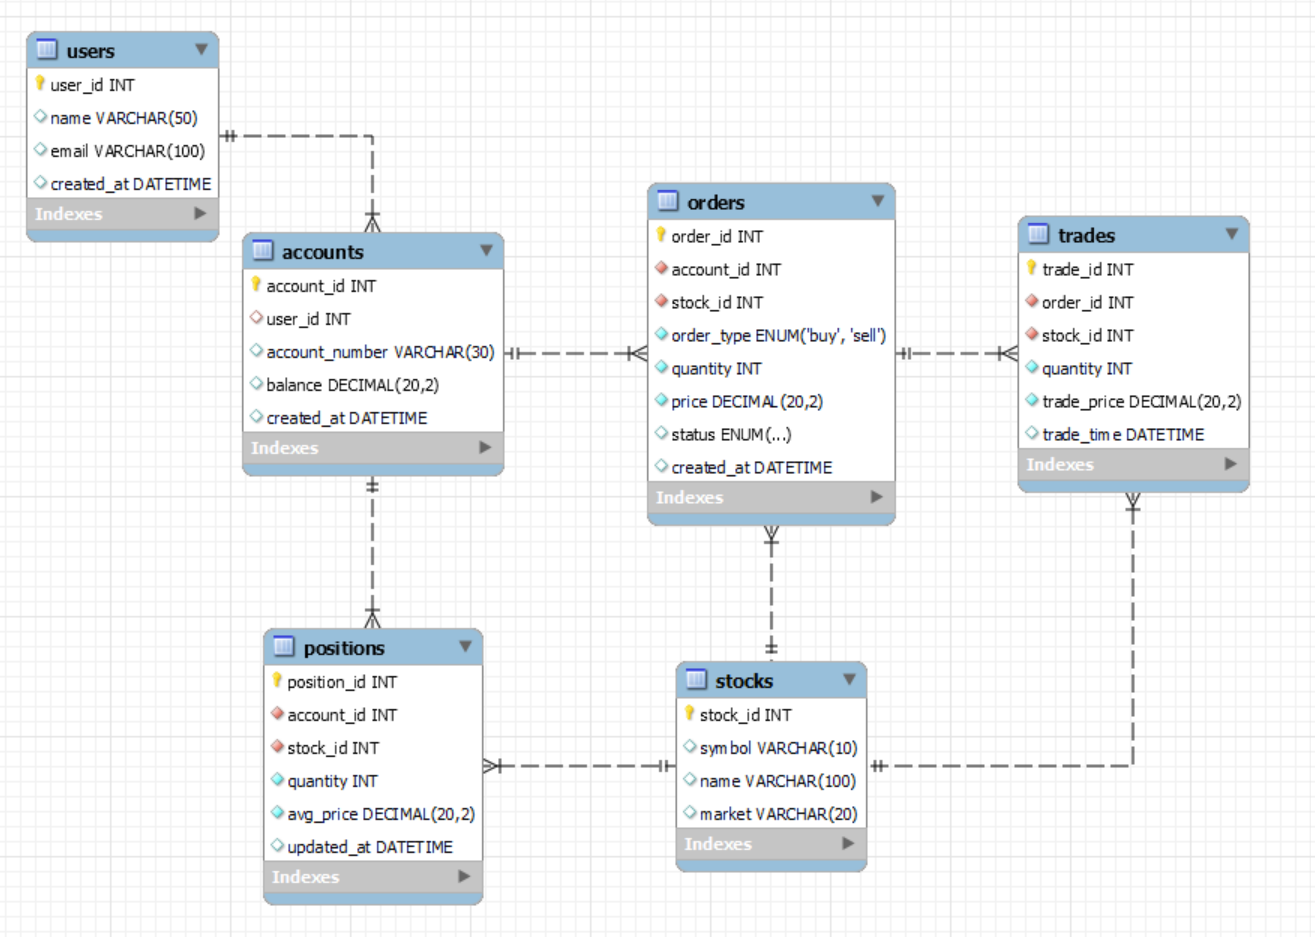
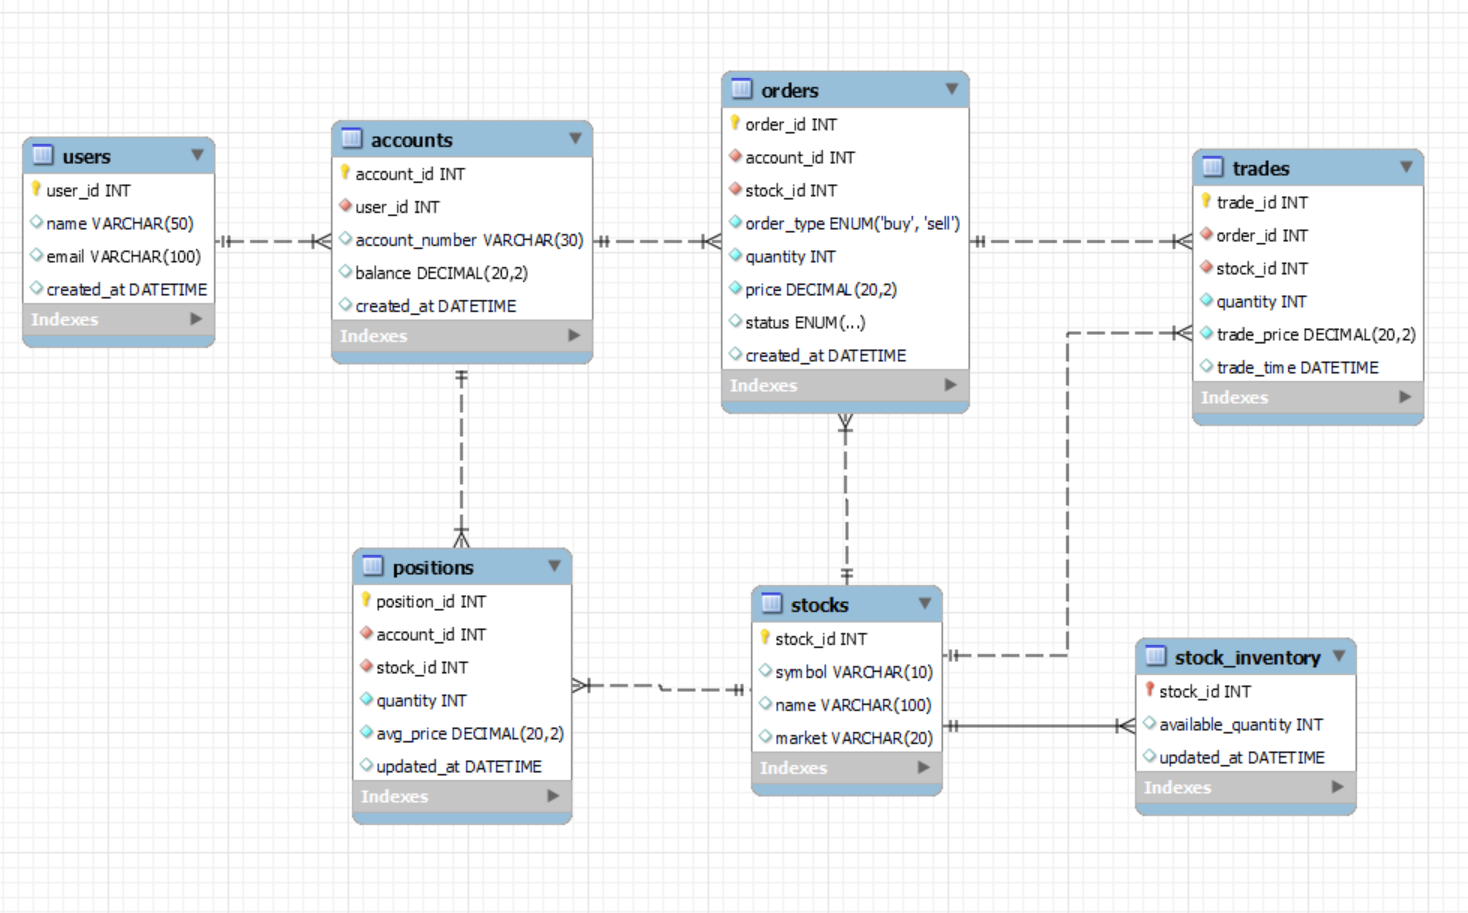
draft

Changed region(s): [[0.1871, 0.0613, 0.9977, 0.9814], [0.0, 0.0307, 0.4365, 0.5214]]

diff --git a/projects/stock_db/index.html b/projects/stock_db/index.html
@@ -289,6 +289,7 @@
     <li><a href="#기획-배경-및-목적">기획 배경 및 목적</a></li>
     <li><a href="#기능-구성">기능 구성</a></li>
     <li><a href="#db-설계">DB 설계</a></li>
+    <li><a href="#dummy-데이터-생성">Dummy 데이터 생성</a></li>
   </ul>
 </nav>
   </aside>
@@ -382,10 +383,10 @@ DB CPU, 커넥션 수, 쿼리 응답시간, 에러 등 시각화</p>
 </li>
 </ol>
 <h2 id="db-설계">DB 설계</h2>
-<p>증권거래 시스템에서 필요할 것으로 생각되는 정보들을 취합한 ERM</p>
+<p>증권거래 시스템에서 필요할 것으로 생각되는 정보들을 취합한 ERD</p>
 <p align="center">
-  <a href="/images/projects/stock_db/ERD.png" data-lightbox="image-set">
-    <img src="/images/projects/stock_db/ERD.png" alt="Your Alt Text" >
+  <a href="/images/projects/stock_db/erd.png" data-lightbox="image-set">
+    <img src="/images/projects/stock_db/erd.png" alt="Your Alt Text" >
   </a>
 </p>
 <table>
@@ -416,9 +417,50 @@ DB CPU, 커넥션 수, 쿼리 응답시간, 에러 등 시각화</p>
 <td><code>stocks</code></td>
 <td>주문, 체결, 포지션에서 공통적으로 참조하는 주식 종목</td>
 </tr>
+<tr>
+<td><code>stocks ↔ stocks_inventory</code></td>
+<td>주문 체결에 따른 종목의 잔여수량</td>
+</tr>
 </tbody>
 </table>
-
+<p>위와 같이 논리적 모델링을 해봤다.<br>
+물론 실제 시스템은 훨씬 크고 복잡한 구조를 가졌을 테지만, 내가 생각했을 때 가장 필요한 개체와 속성들을 위주로 간단하게 만들었다.</p>
+<h2 id="dummy-데이터-생성">Dummy 데이터 생성</h2>
+<p>현재는 아무 데이터가 없는 상태이니 임의로 데이터를 넣어주도록 하겠다.<br>
+users, accounts, stocks 테이블의 데이터는 사전에 만들어진 상태로, 매매 주문 체결 과정만 transaction으로 구현해보려 한다.</p>
+<div class="highlight"><pre tabindex="0" style="color:#f8f8f2;background-color:#272822;-moz-tab-size:4;-o-tab-size:4;tab-size:4;"><code class="language-python" data-lang="python"><span style="display:flex;"><span>
+</span></span><span style="display:flex;"><span><span style="color:#75715e">#2025년 1월1일 기준 KOSPI 상장 종목</span>
+</span></span><span style="display:flex;"><span>tock_lst <span style="color:#f92672">=</span> stock<span style="color:#f92672">.</span>get_market_ticker_list(<span style="color:#e6db74">&#39;20250101&#39;</span>,<span style="color:#e6db74">&#39;KOSPI&#39;</span>)
+</span></span><span style="display:flex;"><span>stock_name <span style="color:#f92672">=</span> list(map(stock<span style="color:#f92672">.</span>get_market_ticker_name, stock_lst))
+</span></span><span style="display:flex;"><span>
+</span></span><span style="display:flex;"><span><span style="color:#66d9ef">def</span> <span style="color:#a6e22e">load_config</span>(file_name):
+</span></span><span style="display:flex;"><span>    <span style="color:#66d9ef">with</span> open(file_name,<span style="color:#e6db74">&#39;r&#39;</span>) <span style="color:#66d9ef">as</span> f:
+</span></span><span style="display:flex;"><span>        <span style="color:#66d9ef">return</span> json<span style="color:#f92672">.</span>load(f)
+</span></span><span style="display:flex;"><span>
+</span></span><span style="display:flex;"><span>conn <span style="color:#f92672">=</span> pymysql<span style="color:#f92672">.</span>connect(<span style="color:#f92672">**</span>load_config(config))
+</span></span><span style="display:flex;"><span>
+</span></span><span style="display:flex;"><span>fake <span style="color:#f92672">=</span> Faker(<span style="color:#e6db74">&#39;ko_KR&#39;</span>)
+</span></span><span style="display:flex;"><span>cursor <span style="color:#f92672">=</span> conn<span style="color:#f92672">.</span>cursor()
+</span></span><span style="display:flex;"><span><span style="color:#75715e"># 사용자 50명 생성</span>
+</span></span><span style="display:flex;"><span><span style="color:#66d9ef">for</span> i <span style="color:#f92672">in</span> range(<span style="color:#ae81ff">1</span>, <span style="color:#ae81ff">50</span><span style="color:#f92672">+</span><span style="color:#ae81ff">1</span>):
+</span></span><span style="display:flex;"><span>    user_id <span style="color:#f92672">=</span> i
+</span></span><span style="display:flex;"><span>    name <span style="color:#f92672">=</span> fake<span style="color:#f92672">.</span>name()
+</span></span><span style="display:flex;"><span>    email <span style="color:#f92672">=</span> fake<span style="color:#f92672">.</span>email()
+</span></span><span style="display:flex;"><span>    cursor<span style="color:#f92672">.</span>execute(<span style="color:#e6db74">&#34;INSERT INTO users (user_id, name, email, created_at) VALUES (</span><span style="color:#e6db74">%s</span><span style="color:#e6db74">, </span><span style="color:#e6db74">%s</span><span style="color:#e6db74">, </span><span style="color:#e6db74">%s</span><span style="color:#e6db74">, NOW())&#34;</span>, (user_id, name, email))
+</span></span><span style="display:flex;"><span>
+</span></span><span style="display:flex;"><span><span style="color:#75715e"># 계좌 100개 생성 (1~50 유저 랜덤 연결)</span>
+</span></span><span style="display:flex;"><span><span style="color:#66d9ef">for</span> i <span style="color:#f92672">in</span> range(<span style="color:#ae81ff">1</span>, <span style="color:#ae81ff">100</span><span style="color:#f92672">+</span><span style="color:#ae81ff">1</span>):
+</span></span><span style="display:flex;"><span>    user_id <span style="color:#f92672">=</span> random<span style="color:#f92672">.</span>randint(<span style="color:#ae81ff">1</span>, <span style="color:#ae81ff">50</span>)
+</span></span><span style="display:flex;"><span>    acc_no <span style="color:#f92672">=</span> <span style="color:#e6db74">f</span><span style="color:#e6db74">&#34;ACC-</span><span style="color:#e6db74">{</span><span style="color:#ae81ff">1000</span><span style="color:#f92672">+</span>i<span style="color:#e6db74">}</span><span style="color:#e6db74">&#34;</span>
+</span></span><span style="display:flex;"><span>    balance <span style="color:#f92672">=</span> random<span style="color:#f92672">.</span>randint(<span style="color:#ae81ff">1000000</span>, <span style="color:#ae81ff">10000000</span>)
+</span></span><span style="display:flex;"><span>    cursor<span style="color:#f92672">.</span>execute(<span style="color:#e6db74">&#34;INSERT INTO accounts (account_id, user_id, account_number, balance, created_at) VALUES (</span><span style="color:#e6db74">%s</span><span style="color:#e6db74">,</span><span style="color:#e6db74">%s</span><span style="color:#e6db74">, </span><span style="color:#e6db74">%s</span><span style="color:#e6db74">, </span><span style="color:#e6db74">%s</span><span style="color:#e6db74">, NOW())&#34;</span>, (i, user_id, acc_no, balance))
+</span></span><span style="display:flex;"><span>
+</span></span><span style="display:flex;"><span><span style="color:#75715e"># KOSPI 961 종목 </span>
+</span></span><span style="display:flex;"><span><span style="color:#66d9ef">for</span> i, (tick, name) <span style="color:#f92672">in</span> enumerate(zip(stock_lst, stock_name)):
+</span></span><span style="display:flex;"><span>    cursor<span style="color:#f92672">.</span>execute(<span style="color:#e6db74">&#34;INSERT INTO stocks (stock_id, symbol, name, market) VALUES (</span><span style="color:#e6db74">%s</span><span style="color:#e6db74">, </span><span style="color:#e6db74">%s</span><span style="color:#e6db74">, </span><span style="color:#e6db74">%s</span><span style="color:#e6db74">, &#39;KOSPI&#39;)&#34;</span>, (i,tick, name))
+</span></span><span style="display:flex;"><span>
+</span></span><span style="display:flex;"><span>conn<span style="color:#f92672">.</span>close()
+</span></span></code></pre></div>
     </section> 
 
     

diff --git a/index.html b/index.html
@@ -162,24 +162,24 @@
   
   
   
-  <meta itemprop="name" content="漸入佳境">
+  <meta itemprop="name" content="Home">
 <meta itemprop="description" content="">
   
-  <meta property="og:title" content="漸入佳境" />
+  <meta property="og:title" content="Home" />
 <meta property="og:description" content="" />
 <meta property="og:type" content="website" />
 <meta property="og:url" content="/" />
 
   
-  <meta name="twitter:card" content="summary"/><meta name="twitter:title" content="漸入佳境"/>
+  <meta name="twitter:card" content="summary"/><meta name="twitter:title" content="Home"/>
 <meta name="twitter:description" content=""/>
 
   
   
   <link
     rel="alternate"
-    type="application/rss&#43;xml"
-    href="/index.xml"
+    type="application/json"
+    href="/index.json"
     title="漸入佳境"
   />
   

diff --git a/page/2/index.html b/page/2/index.html
@@ -162,24 +162,24 @@
   
   
   
-  <meta itemprop="name" content="漸入佳境">
+  <meta itemprop="name" content="Home">
 <meta itemprop="description" content="">
   
-  <meta property="og:title" content="漸入佳境" />
+  <meta property="og:title" content="Home" />
 <meta property="og:description" content="" />
 <meta property="og:type" content="website" />
 <meta property="og:url" content="/" />
 
   
-  <meta name="twitter:card" content="summary"/><meta name="twitter:title" content="漸入佳境"/>
+  <meta name="twitter:card" content="summary"/><meta name="twitter:title" content="Home"/>
 <meta name="twitter:description" content=""/>
 
   
   
   <link
     rel="alternate"
-    type="application/rss&#43;xml"
-    href="/index.xml"
+    type="application/json"
+    href="/index.json"
     title="漸入佳境"
   />
   
